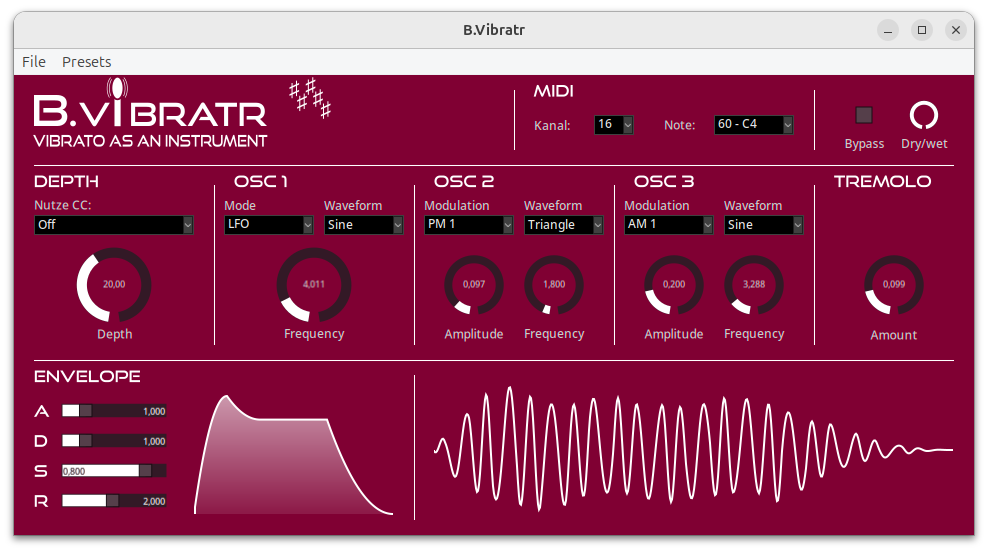
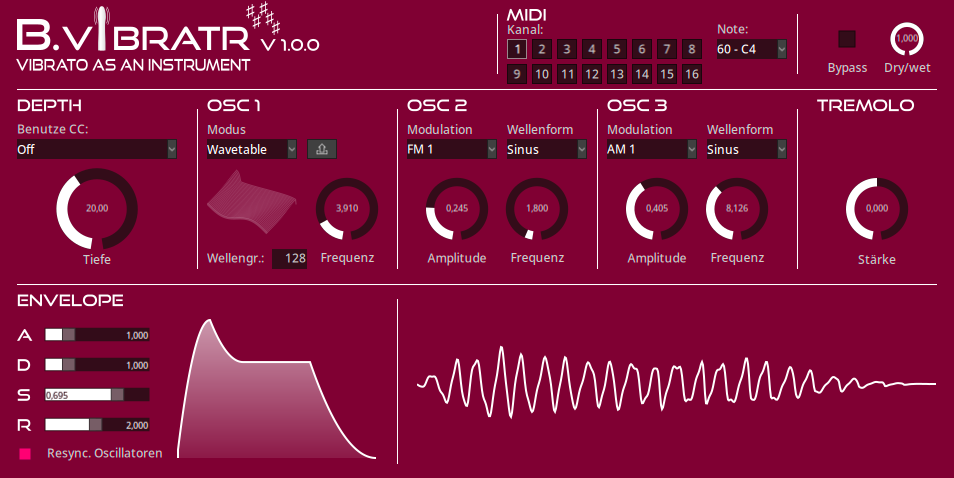
V1.0.0: Add help button; internationalization EN, DE; documentation

diff --git a/src/BVibratrGUI.cpp b/src/BVibratrGUI.cpp
@@ -23,6 +23,7 @@
 #include "BWidgets/BWidgets/Symbol.hpp"
 #include "BWidgets/BWidgets/TextButton.hpp"
 #include "BWidgets/BWidgets/Widget.hpp"
+#include "BWidgets/BUtilities/vsystem.hpp"
 #include "MIDI_CC.hpp"
 #include "Ports.hpp"
 #include "ADSR.hpp"
@@ -43,7 +44,7 @@ BVibratrGUI::BVibratrGUI (const char *bundle_path, const LV2_Feature *const *fea
 	map (nullptr),
 
 	mContainer(0, 0, BVIBRATR_GUI_WIDTH, BVIBRATR_GUI_HEIGHT, pluginPath + "inc/surface.png", URID ("/bgimage")),
-	//helpButton (918, 508, 24, 24, false, false, URID ("/halobutton"), BDICT ("Help")),
+	helpButton (918, 438, 24, 24, false, false, URID ("/halobutton"), BDICT ("Help")),
 	//ytButton (948, 508, 24, 24, false, false, URID ("/halobutton"), BDICT ("Preview")),
 	bypassLabel (820, 60, 60, 20, BDICT ("Bypass"), URID ("/ctlabel")),
 	bypassButton (840, 30, 20, 20, 2, true, false, URID ("/redbutton"), BDICT ("Bypass")),
@@ -187,7 +188,7 @@ BVibratrGUI::BVibratrGUI (const char *bundle_path, const LV2_Feature *const *fea
 	for (BWidgets::TextButton* m : midiChannelBoxes) m->setCallbackFunction (BEvents::Event::EventType::valueChangedEvent, BVibratrGUI::midiChannelsChangedCallback);
 	spfEdit.setCallbackFunction (BEvents::Event::EventType::valueChangedEvent, BVibratrGUI::spfChangedCallback);
 	loadWavetableButton.setCallbackFunction (BEvents::Event::EventType::buttonPressEvent, BVibratrGUI::loadWavetableClickedCallback);
-	//helpButton.setCallbackFunction (BEvents::Event::EventType::buttonPressEvent, BVibratrGUI::helpButtonClickedCallback);
+	helpButton.setCallbackFunction (BEvents::Event::EventType::buttonPressEvent, BVibratrGUI::helpButtonClickedCallback);
 	//ytButton.setCallbackFunction (BEvents::Event::EventType::buttonPressEvent, BVibratrGUI::ytButtonClickedCallback);
 
 	// Pack widgets
@@ -224,9 +225,10 @@ BVibratrGUI::BVibratrGUI (const char *bundle_path, const LV2_Feature *const *fea
 	mContainer.add(&osc3Screen2);
 	mContainer.add(&resyncLabel);
 	mContainer.add(&tremoloLabel);
-	mContainer.add (&adsrDisplay);
-	mContainer.add (&waveformDisplay);
-	add (&mContainer);
+	mContainer.add(&adsrDisplay);
+	mContainer.add(&waveformDisplay);
+	mContainer.add(&helpButton);
+	add(&mContainer);
 
 	//Init map, URID
 	urids.init (features, &map);
@@ -820,16 +822,17 @@ void BVibratrGUI::wavetableFileSelectedCallback (BEvents::Event* event)
 	}
 }
 
-/*
+
 void BVibratrGUI::helpButtonClickedCallback (BEvents::Event* event)
 {
 	char cmd[] = WWW_BROWSER_CMD;
 	char param[] = HELP_URL;
 	char* argv[] = {cmd, param, NULL};
 	std::cerr << "BAngr.lv2#GUI: Call " << HELP_URL << " for help.\n";
-	if (BUtilities::vsystem (argv) == -1) std::cerr << "BAngr.lv2#GUI: Couldn't fork.\n";
+	if (BUtilities::vsystem (argv) == -1) std::cerr << "BVibratr.lv2#GUI: Couldn't fork.\n";
 }
 
+/*
 void BVibratrGUI::ytButtonClickedCallback (BEvents::Event* event)
 {
 	char cmd[] = WWW_BROWSER_CMD;

diff --git a/src/BVibratrGUI.hpp b/src/BVibratrGUI.hpp
@@ -34,7 +34,7 @@
 #define WWW_BROWSER_CMD "x-www-browser"
 #endif
 
-// #define HELP_URL "https://github.com/sjaehn/BAngr/blob/master/README.md"
+#define HELP_URL "https://github.com/sjaehn/BVibratr/blob/master/README.md"
 // #define YT_URL "https://www.youtube.com/watch?v=-kWy_1UYazo"
 
 #define URID(x) (BURID(BVIBRATR_GUI_URI x))
@@ -62,7 +62,7 @@ private:
 	static void spfChangedCallback (BEvents::Event* event);
 	static void loadWavetableClickedCallback (BEvents::Event* event);
 	static void wavetableFileSelectedCallback (BEvents::Event* event);
-	//static void helpButtonClickedCallback (BEvents::Event* event);
+	static void helpButtonClickedCallback (BEvents::Event* event);
 	//static void ytButtonClickedCallback (BEvents::Event* event);
 
 	const std::string pluginPath;
@@ -74,7 +74,7 @@ private:
 
 	// Widgets
 	BWidgets::Image mContainer;
-	//BWidgets::Button helpButton;
+	BWidgets::Button helpButton;
 	//BWidgets::Button ytButton;
 	BWidgets::Label bypassLabel;
 	BWidgets::Knob bypassButton;

diff --git a/README.md b/README.md
@@ -1,7 +1,5 @@
-# B.Vibratr (experimental)
+# B.Vibratr
 A "flavoured" vibrato as an instrument LV2 plugin.
-
-**Note: This software is still under construction. There will be major modifications which may break compatibility. Don't use it for production!!!**
 
 Key features:
 * Effect plugin, but play it like an instrument
@@ -18,22 +16,25 @@ b) Use the latest provided binaries (once established)
 
 c) Build your own binaries in the following three steps.
 
-Step 1: [Download the latest published version](https://github.com/sjaehn/BVibratr/releases) of B.Vibratr. 
-Or clone or [download the master](https://github.com/sjaehn/BVibratr/archive/master.zip) of this repository.
+Step 1: [Download the latest published version](https://github.com/sjaehn/BVibratr/releases)
+of B.Vibratr. 
+Or clone or [download the master](https://github.com/sjaehn/BVibratr/archive/master.zip) 
+of this repository.
 
-Step 2: Install pkg-config and the development packages for x11, cairo, and lv2 if not done yet. If you
-don't have already got the build tools (compilers, make, libraries) then install them too.
+Step 2: Install pkg-config and the development packages for x11, cairo, 
+sndfile and lv2 if not done yet. If you don't have already got the build
+tools (compilers, make, libraries) then install them too.
 
 On Debian-based systems you may run:
 ```
 sudo apt-get install build-essential
-sudo apt-get install pkg-config libx11-dev libcairo2-dev lv2-dev
+sudo apt-get install pkg-config libx11-dev libcairo2-dev libsndfile1-dev lv2-dev
 ```
 
 On Arch-based systems you may run:
 ```
 sudo pacman -S base-devel
-sudo pacman -S pkg-config libx11 cairo lv2
+sudo pacman -S pkg-config libx11 cairo libsndfile lv2
 ```
 
 Step 3: Building and installing into the default lv2 directory (/usr/local/lib/lv2/) is easy using `make` and
@@ -85,9 +86,26 @@ midi_in    ---> │           │
 There are at least two ways to realize the MIDI input:
 * In series after a synthesizer that offers MIDI through. In this case, you 
 can use both, MIDI and audio signal comming from the synth. 
+
+  ```
+              ┌───────┐                  ┌───────────┐
+              │       │ --> audio_1  --> │           │ --> audio_out_1
+              │ Synth │ --> audio_2  --> │ B.Vibratr │ --> audio_out_2
+  midi_in --> │       │ --> midi_thru--> │           │ 
+              └───────┘                  └───────────┘
+  ```
+
 * In parallel to an audio stream-producing instrument or sampler. In this 
 case, you can use the audio signal from your instrument, but you will need an
 additional MIDI input to use all the MIDI features from B.Vibratr.
+  ```
+             ┌───────┐                  ┌───────────┐
+             │       │ --> audio_1  --> │           │ --> audio_out_1
+             │ Synth │ --> audio_2  --> │ B.Vibratr │ --> audio_out_2
+  midi_1 --> │       │              ┌-> │           │ 
+             └───────┘              │   └───────────┘
+  midi_2 ---------------------------┘
+    ```
 
 
 ### Step 2: Set a trigger
@@ -128,7 +146,32 @@ manipulate OSC1, and OSC2 can mainpulate both OSC1 and OSC2. Supported
 manipulation are signal addition (add), frequency modulation (FM), phase 
 modulation (PM) and amplitude modulation (AM). In addition to the oscillator
 frequency, you can also set the amplitude (amount) of the respective 
-oscillator OSC2 and OSC3. 
+oscillator OSC2 and OSC3.
+
+```
+┌─────────────────────────┐
+| Osc_1:                  |
+| Sine, triangle, square, | ------------> vibrato
+| saw, wavetable          |      ^
+└─────────────────────────┘      |
+           ^                     |
+           |  FM1, PM1, AM1      | Add
+           └-----------------┐   |
+┌─────────────────────────┐  |   |
+| Osc_2:                  |  |   |  
+| Sine, triangle, square, | -┴---┘
+| saw                     |  ^   ^
+└─────────────────────────┘  |   |
+           ^                 |   |
+           |  FM2, PM2, AM2  |   |
+           └-----------------┐   |
+┌─────────────────────────┐  |   |
+| Osc_3:                  |  |   |
+| Sine, triangle, square, | -┴---┘
+| saw                     |
+└─────────────────────────┘
+
+```
 
 In addition to the vibrato effect, you can apply a tremolo volume effect. The 
 tremolo is parallelized to the vibrato change in pitch (or antiparallel in the
@@ -136,7 +179,14 @@ case of negative tremolo values). For positive tremolo values: The higher the
 pitch, the higher the volume. And for negative tremolo values *vice versa*.
 
 Finally, B.Vibratr uses a standard ADSR envelope to control the vibrato depth
-and the tremolo amount.
+and the tremolo amount. There is also an option to (re-)synchronize all three 
+oscillators with the ADSR start/stop. If this option is activated (default), 
+then the oscillators are reset up start or stop vibrato playing. This results
+in a highly reproducible vibrato effect. If you want more flexibly sounding
+vibratos, then deactivate resync and optinally combine it with the use of
+wavetables.
+
+
 
 
 ### Appendix: Wavetables
@@ -218,13 +268,14 @@ request or notifying me (issue report, e-mail, ...).
   * Also support Surge XT .wt wavetables
   * Communicate only path data instead of full wavetable data between host and ui
 * Simple wavetable manipulation (wave size only)
+* Optional re-syncronzize oscillators with adsr
+* Internationalization: EN, DE
 
 
 ## TODOs
 
-* Internationalization
-* Presets
-* Documentation
+* Internationalization other languages (community)
+* Presets (community)
 * Multiple keys (later versions)
 
 
